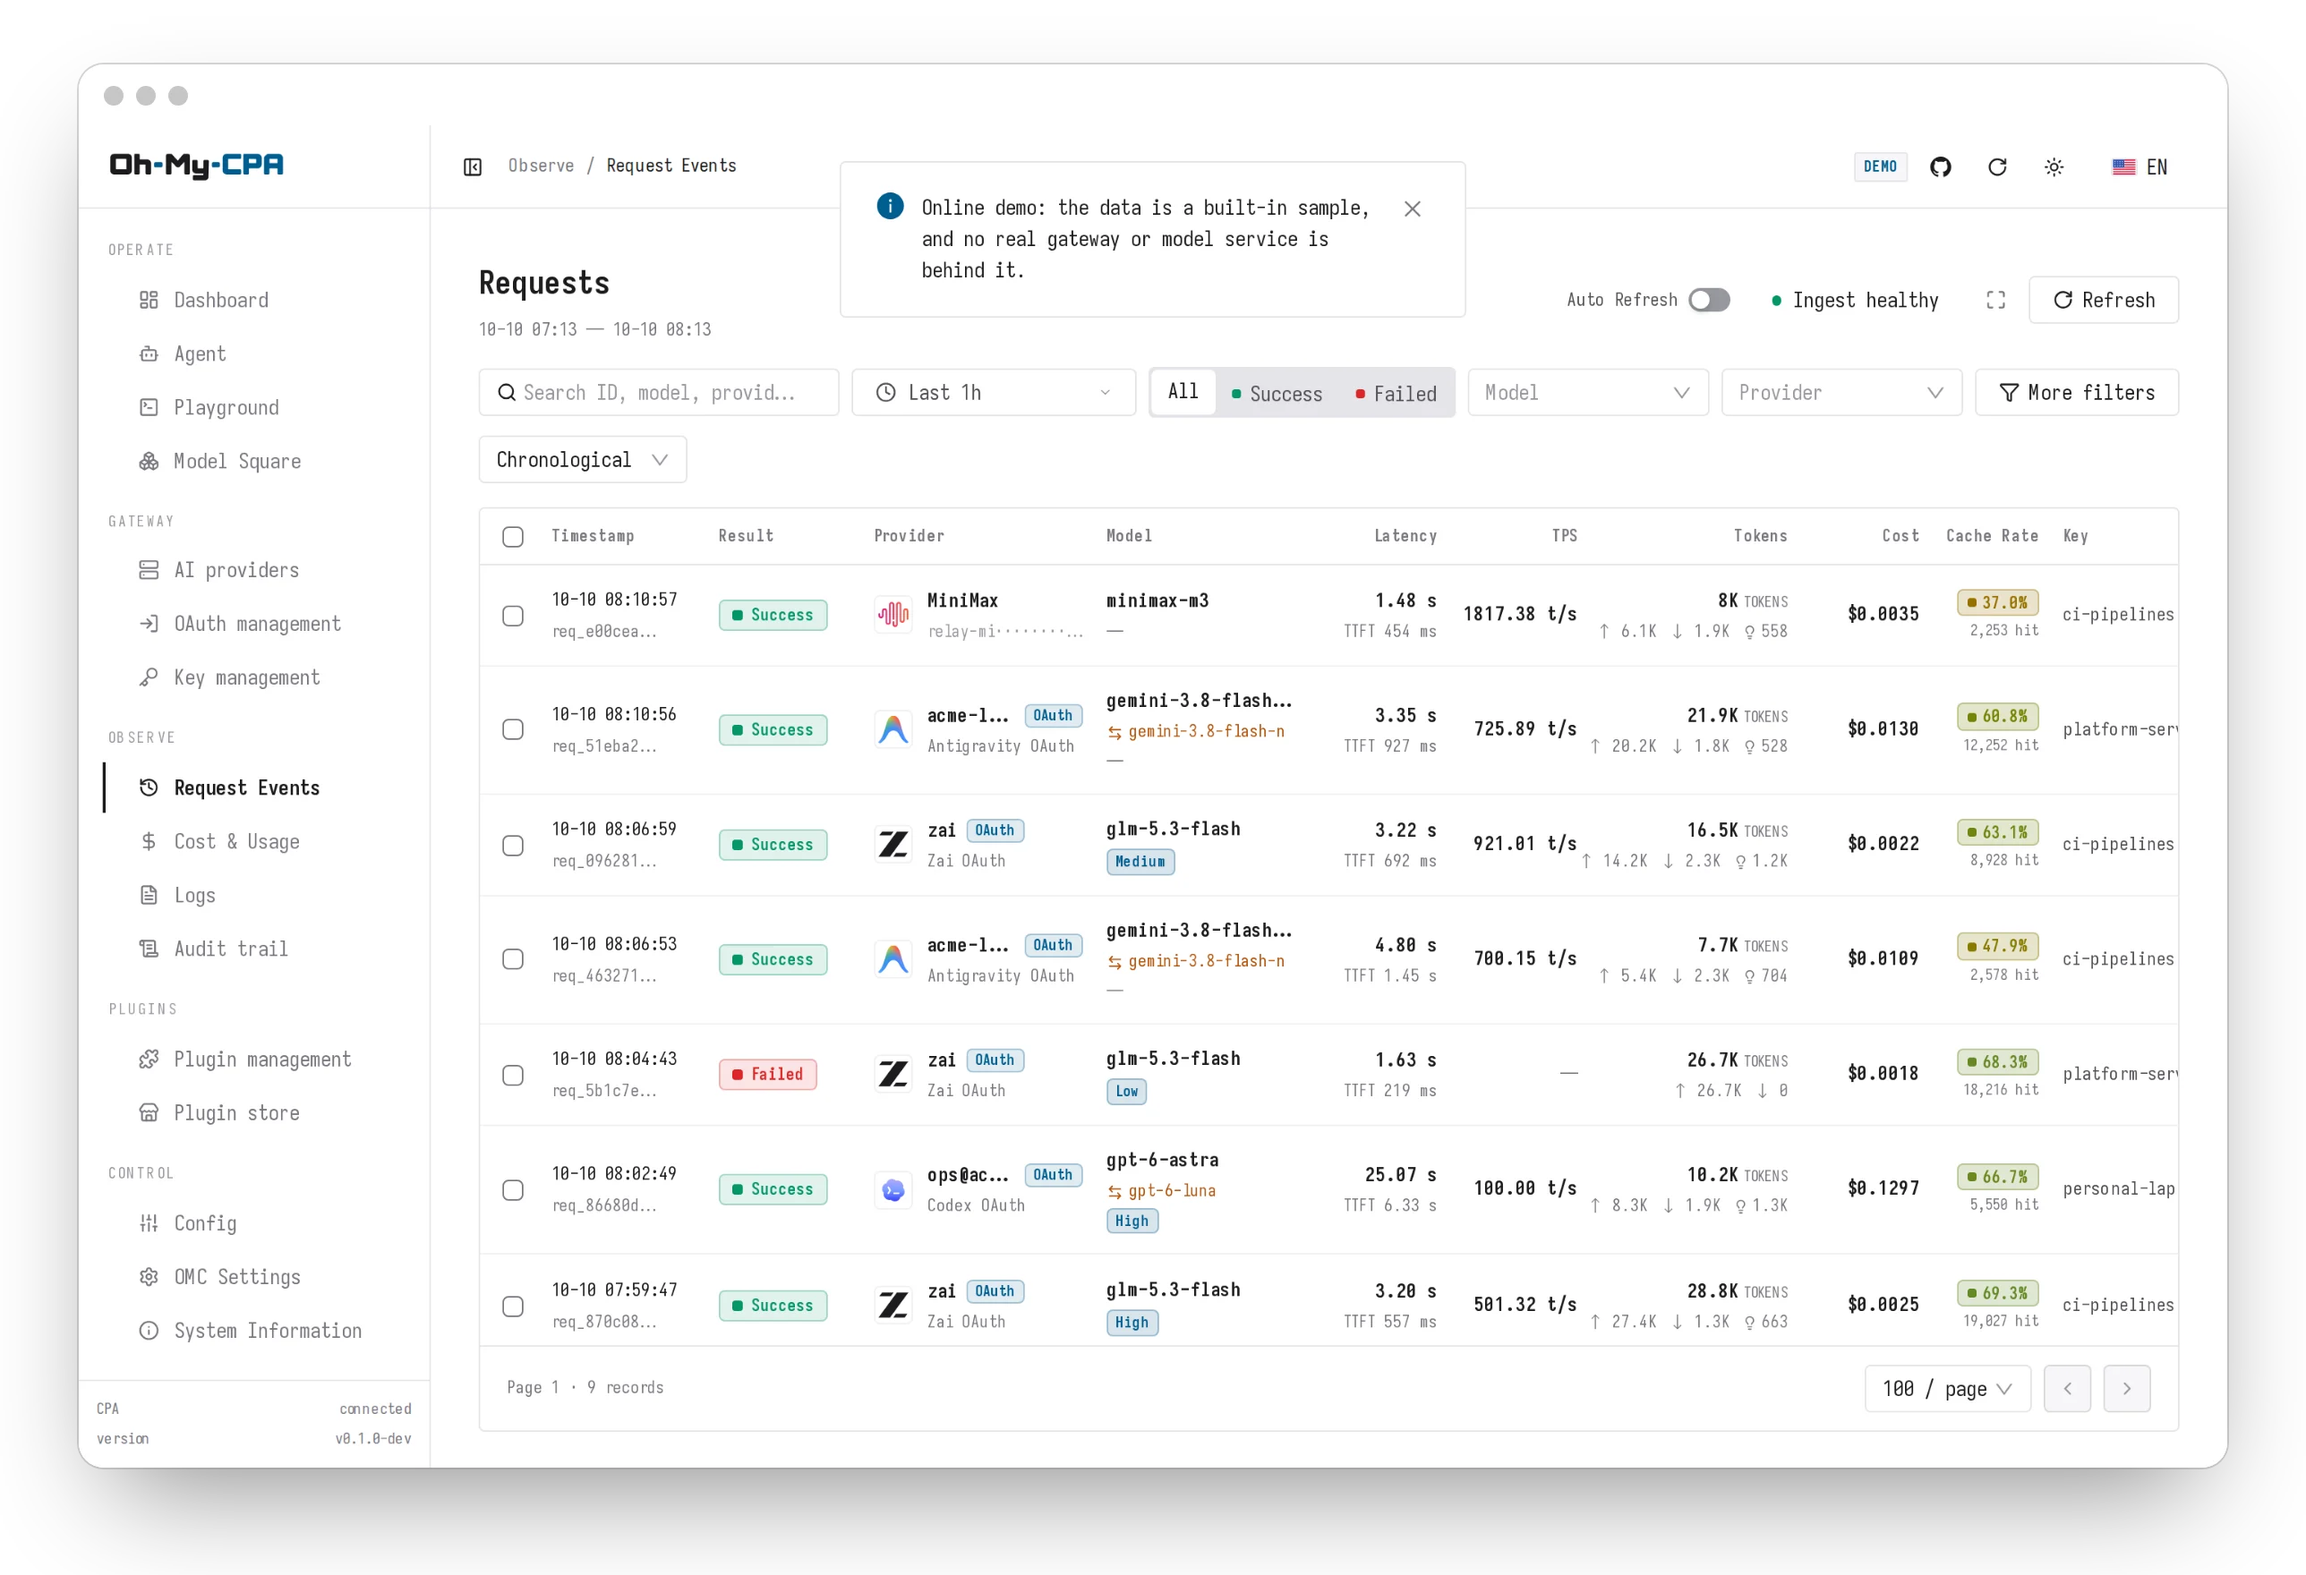
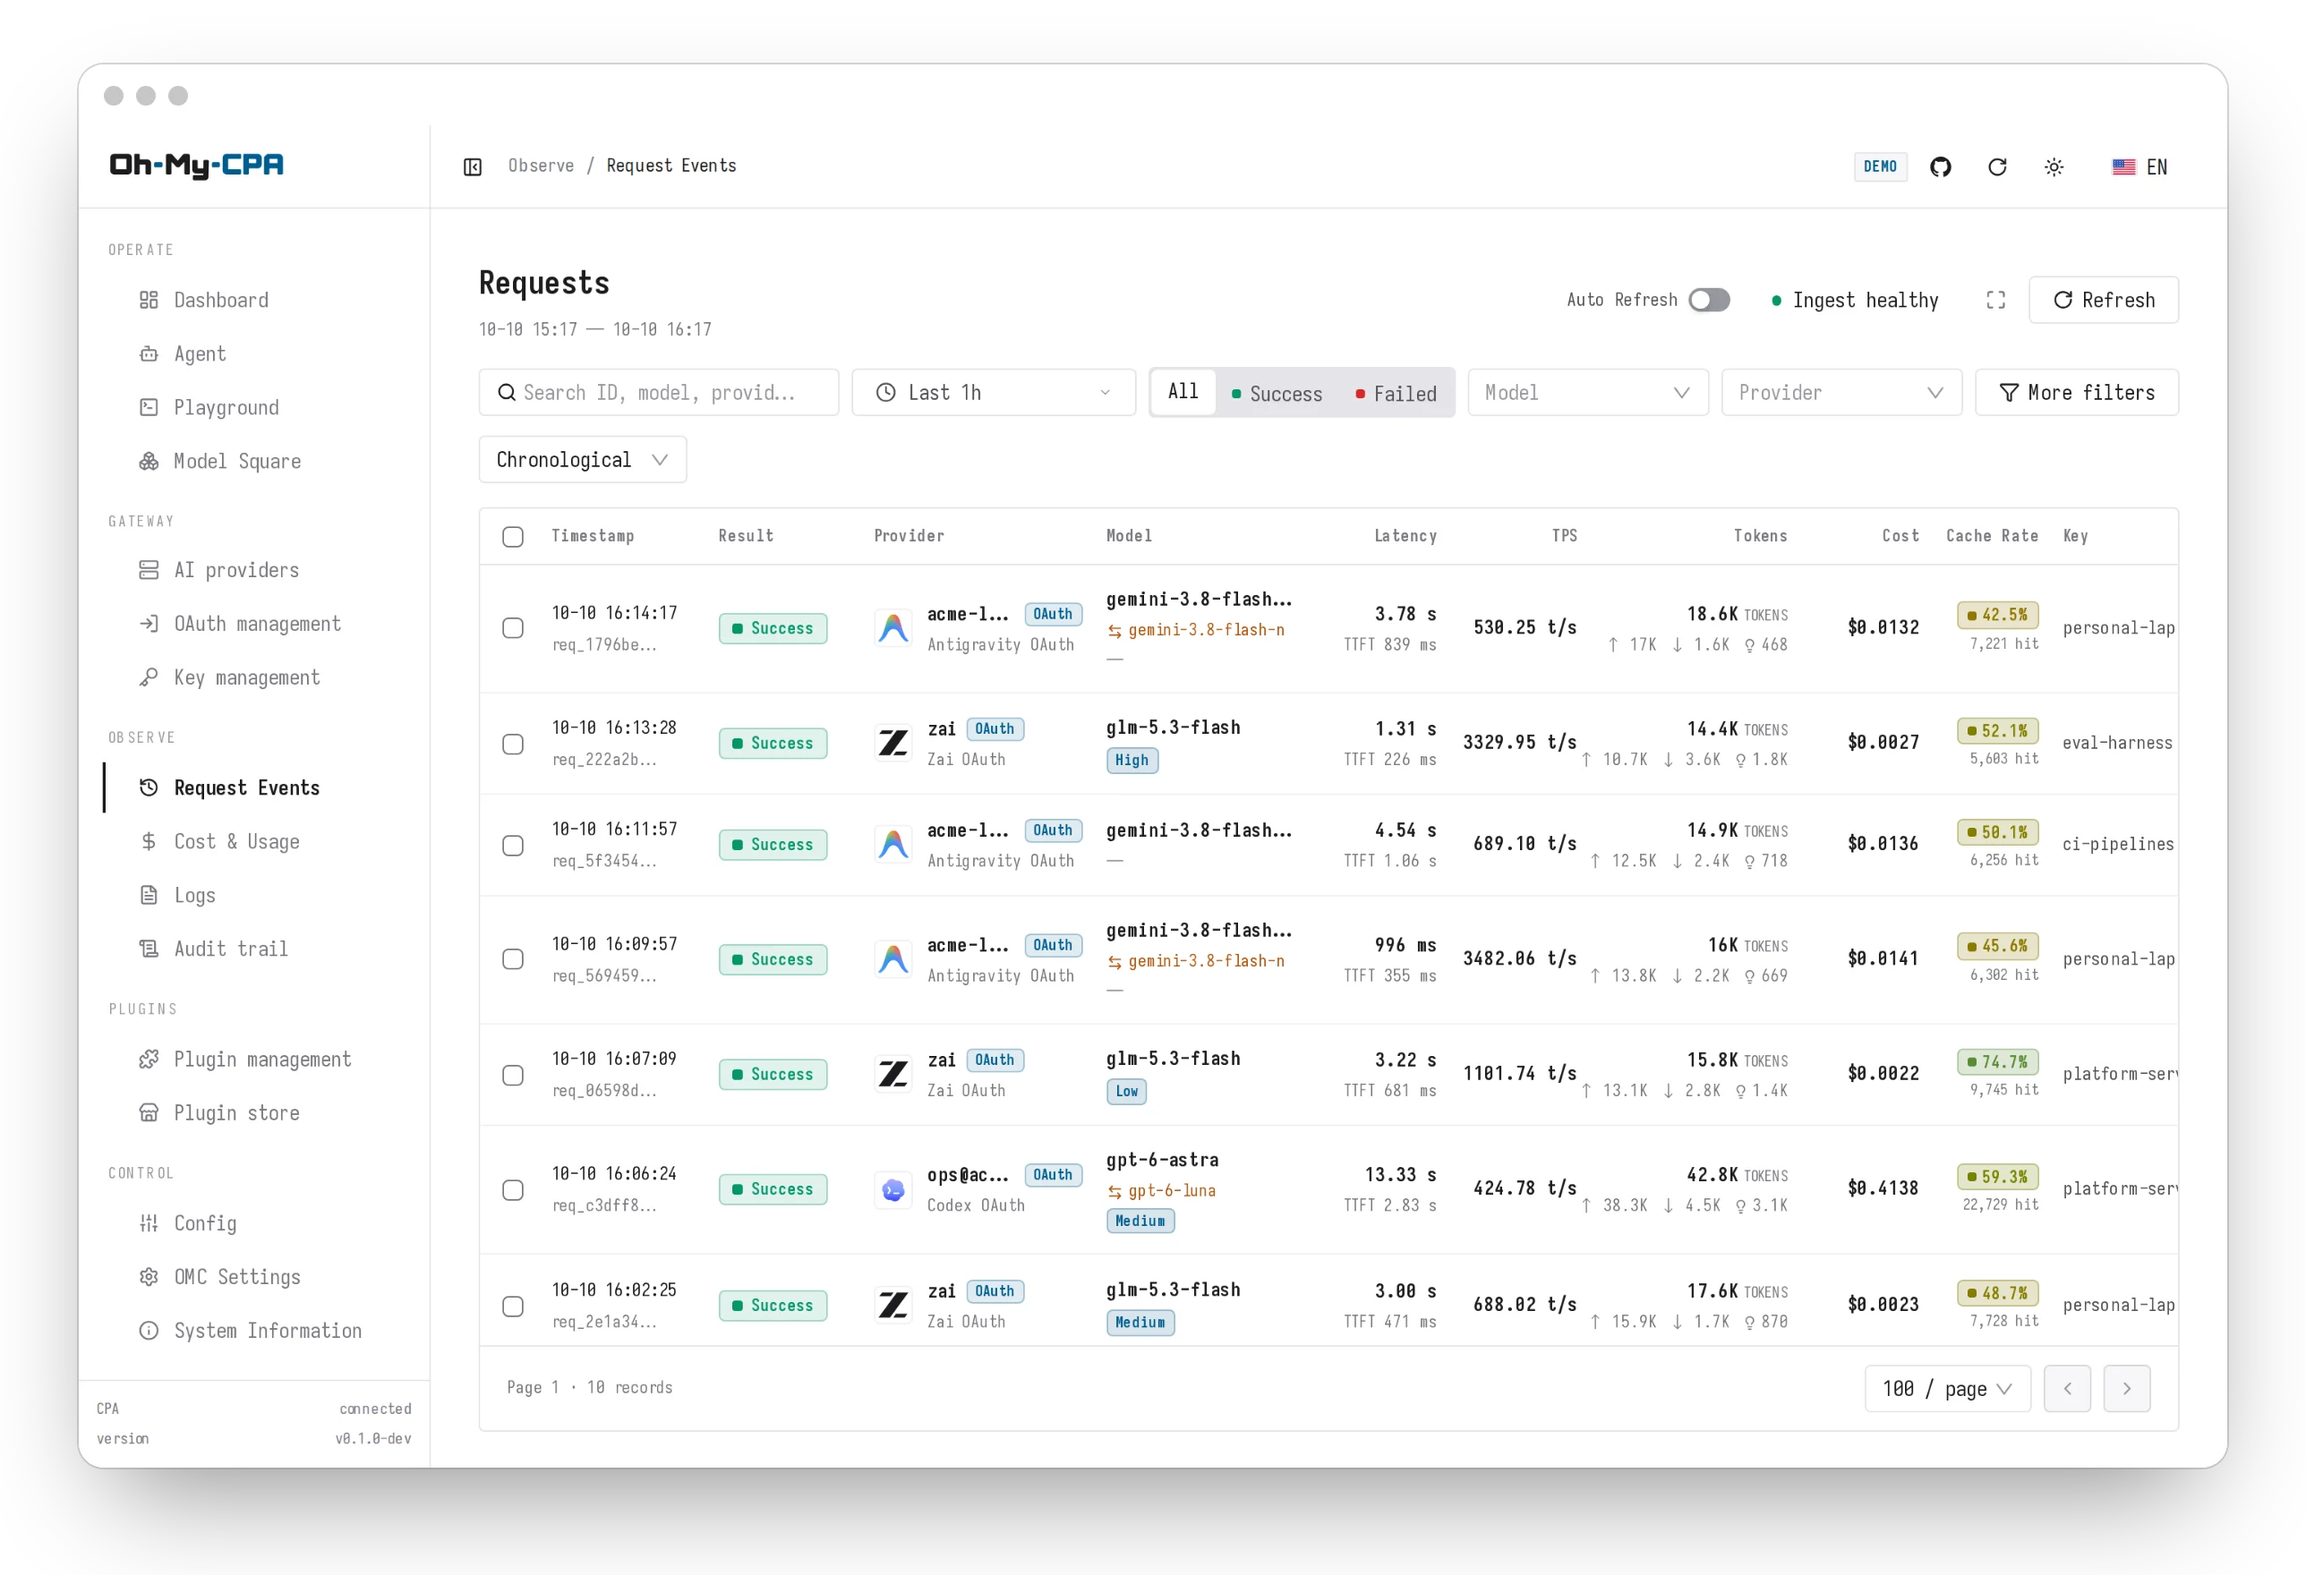
fix(docs): wait for toasts before capturing readme screenshots
Require settled page content and detached feedback before capture, then recheck readiness immediately before taking the screenshot. Regenerate all 20 English and Chinese desktop/mobile README images.

Add automatically discovered readiness regression coverage and update docs/testing.md with capture and verification ownership. Validated with pnpm test:fast, pnpm verify, pnpm check:ui, pnpm build, and pnpm readme:screenshots.

diff --git a/docs/testing.md b/docs/testing.md
@@ -1034,3 +1034,15 @@ The existing `agent-stream` probe exports a generated component as standalone HT
 it requires script-set content in the opaque sandbox and an exact fixture color in PNG
 pixels, then checks temporary-frame cleanup. The common conversation-export helper retains
 real download/controls/mobile checks. These browser claims are not replaced by DOM tests.
+
+### README screenshot readiness
+
+`scripts/readme-screenshot-readiness.test.mjs` pins the capture predicate: visible
+page content, no visible loading surfaces, and no mounted toast (including its exit
+motion). It is automatically discovered by `pnpm test:self`; it does not launch a
+browser or certify pixels. `pnpm build && pnpm readme:screenshots` supplies the real
+Chromium evidence and regenerates the English/Chinese desktop and mobile images
+under `docs/images/readme/`. The generator waits on that predicate rather than a
+fixed delay, checks it again immediately before capture, and leaves the Demo's
+normal arrival feedback unchanged. Image freshness remains outside verification
+gates because the sample traffic is rebased to the capture clock.
